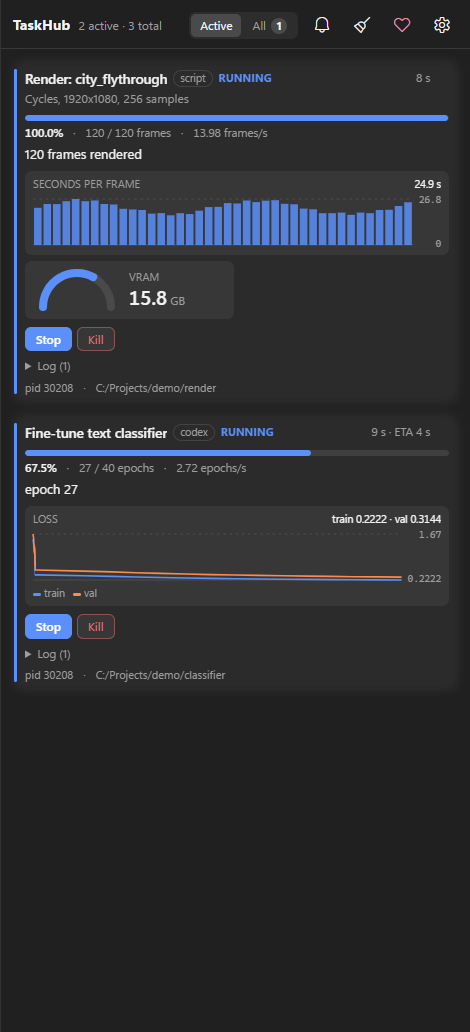
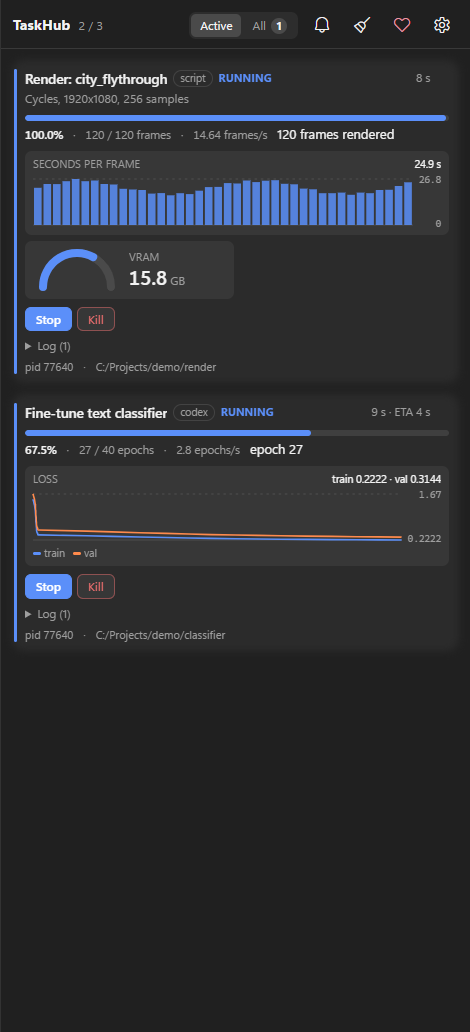
3.1.0: AWS connector, plan limits for Claude Code and Codex, settings beside the panel, clearer log; new panel image and demo

diff --git a/src/Host/Settings.cs b/src/Host/Settings.cs
@@ -93,7 +93,7 @@ static class Log
 sealed class Settings
 {
     public const string AppId = "TaskHub";
-    public const string Version = "3.0.0";
+    public const string Version = "3.1.0";
 #if BETA
     public const bool IsBeta = true;
 #else

diff --git a/CHANGELOG.md b/CHANGELOG.md
@@ -5,6 +5,8 @@ from here), followed by the list of commits.
 
 ## Unreleased
 
+## 3.1.0 — 2026-11-03
+
 - New connector: AWS. EC2 instances, SageMaker training jobs and AWS Batch jobs as tasks, this month's cost and forecast, AWS Budgets, each behind its own switch. Off until you turn it on, and read-only. Built from AWS's documentation and tested against a simulator, not yet on a real account. Cost Explorer is billed by AWS ($0.01 per request; about $1.80 a month).
 - Settings open beside the panel, with icon tabs. While the panel is pinned they close only with their own button.
 - Plan limits for Claude Code, off until you turn them on: how much of the 5-hour and weekly limits is used, in the panel, yellow with a warning from 75%, red with a warning from 90%. Your own status line keeps working unchanged. Also by script: `TaskHubHost.exe --integrations claude-limits=on` (Codex: with TaskHub closed).
